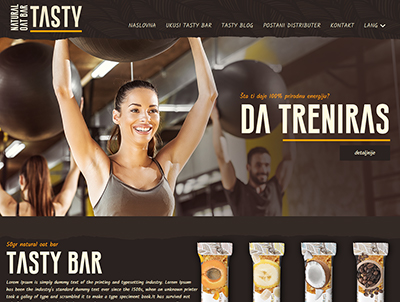
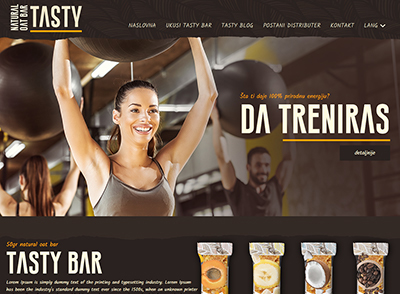
optimazed large images

diff --git a/client/pages/index.vue b/client/pages/index.vue
@@ -212,7 +212,7 @@ export default {
       skills: [
         {
           title: 'HTML',
-          image: require('@/assets/images/html.png'),
+          image: require('@/assets/images/html.jpg'),
           desc: 'The HyperText Markup Language, or HTML is the standard markup language for documents designed to be displayed in a web browser. It can be assisted by technologies such as Cascading Style Sheets (CSS) and scripting languages such as JavaScript.'
         },
         {
@@ -308,6 +308,7 @@ export default {
 <style>
 .hero-home {
   background-image: url("@/assets/images/hero-home.jpg");
+  background-color: rgba(45, 25, 72, 1);
   background-repeat: no-repeat;
   background-size: cover;
   height: calc(100vh - 30px - 85px);
@@ -351,7 +352,7 @@ export default {
 }
 
 .section-process {
-  background-image: url("@/assets/images/work-process-bg.png");
+  background-image: url("@/assets/images/work-process-bg.jpg");
   background-repeat: no-repeat;
   background-position: center;
   background-size: cover;

diff --git a/client/pages/about/index.vue b/client/pages/about/index.vue
@@ -14,14 +14,14 @@
     <section class="section">
       <div class="container">
         <div class="row justify-content-center">
-          <div class="col-md-8">
+          <div class="col-md-8 text-center">
             <h1 class="section-title">
               We are Creative Agnecy
             </h1>
             <p class="section-lead">
               Lorem ipsum dolor sit amet consectetur adipisicing elit. Praesentium, fuga necessitatibus voluptate, consequatur aliquam harum nostrum, vitae dolore ipsa placeat tempora nesciunt ab porro. Ipsum, veritatis earum voluptatibus dolores animi molestiae, itaque architecto delectus alias accusantium quisquam ratione, quis minima!
             </p>
-            <img src="@/assets/images/about-page.png" class="img-fluid" alt>
+            <img src="@/assets/images/about-page.jpg" class="img-fluid" alt>
           </div>
         </div>
       </div>

diff --git a/client/pages/process/index.vue b/client/pages/process/index.vue
@@ -83,7 +83,7 @@ export default {
       skills: [
         {
           title: 'HTML',
-          image: require('@/assets/images/html.png'),
+          image: require('@/assets/images/html.jpg'),
           desc: 'The HyperText Markup Language, or HTML is the standard markup language for documents designed to be displayed in a web browser. It can be assisted by technologies such as Cascading Style Sheets (CSS) and scripting languages such as JavaScript.'
         },
         {

diff --git a/client/components/Header.vue b/client/components/Header.vue
@@ -118,6 +118,7 @@ header {
   width: 100%;
   background-color: rgba(45, 25, 72, 1);
   transition: all .25s ease-in-out;
+    border-bottom: 1px solid #705096;
 }
 
 .header_fixed {
@@ -142,7 +143,6 @@ header nav {
   display: flex;
   align-items: center;
   justify-content: space-between;
-  border-bottom: 1px solid #705096;
 }
 
 .header-list {

diff --git a/client/pages/works/index.vue b/client/pages/works/index.vue
@@ -101,6 +101,10 @@ export default {
   color: #f33c7a;
 }
 
+.project img {
+  border: 1px solid #d9d9d9;
+}
+
 .project-link {
   color: #2d1948;
   font-weight: bold;
